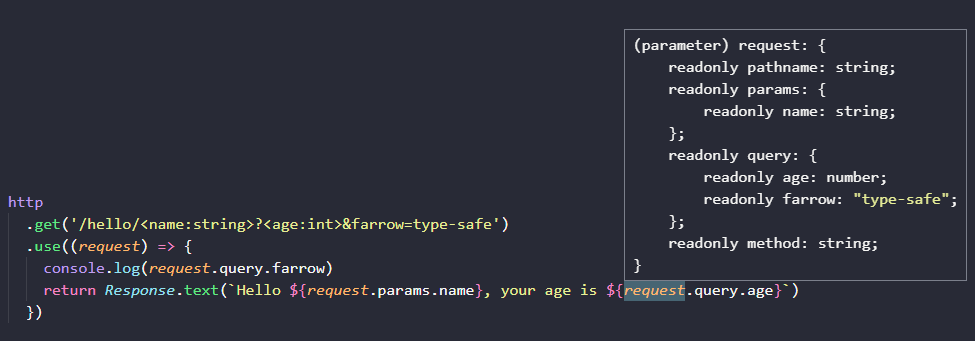
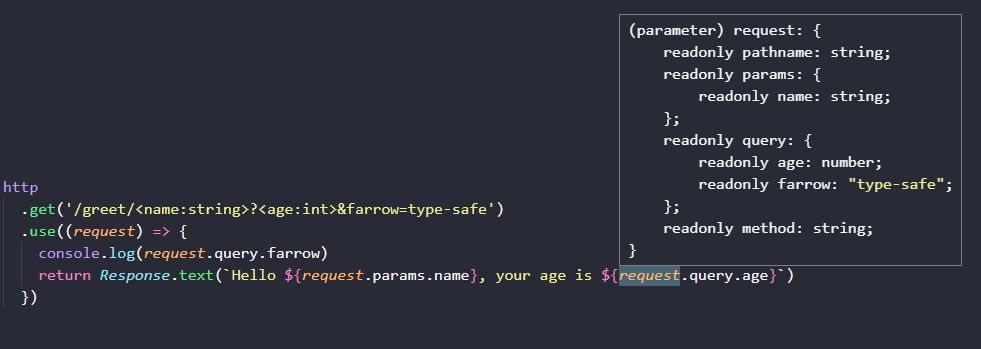
chore: update image and improve example

diff --git a/packages/example/src/index.tsx b/packages/example/src/index.tsx
@@ -1,11 +1,16 @@
 import path from 'path'
-import { Http } from 'farrow-http'
+import { Http, Response } from 'farrow-http'
 import { router as api } from './api'
 import { router as pages } from './pages'
 import { Action2Api } from './middleware/Action2Page'
 
 const http = Http({
   basenames: ['/base'],
+})
+
+http.get('/greet/<name:string>?<age:int>&farrow=type-safe').use((request) => {
+  console.log(request.query.farrow)
+  return Response.text(`Hello ${request.params.name}, your age is ${request.query.age}`)
 })
 
 http.use(pages)
